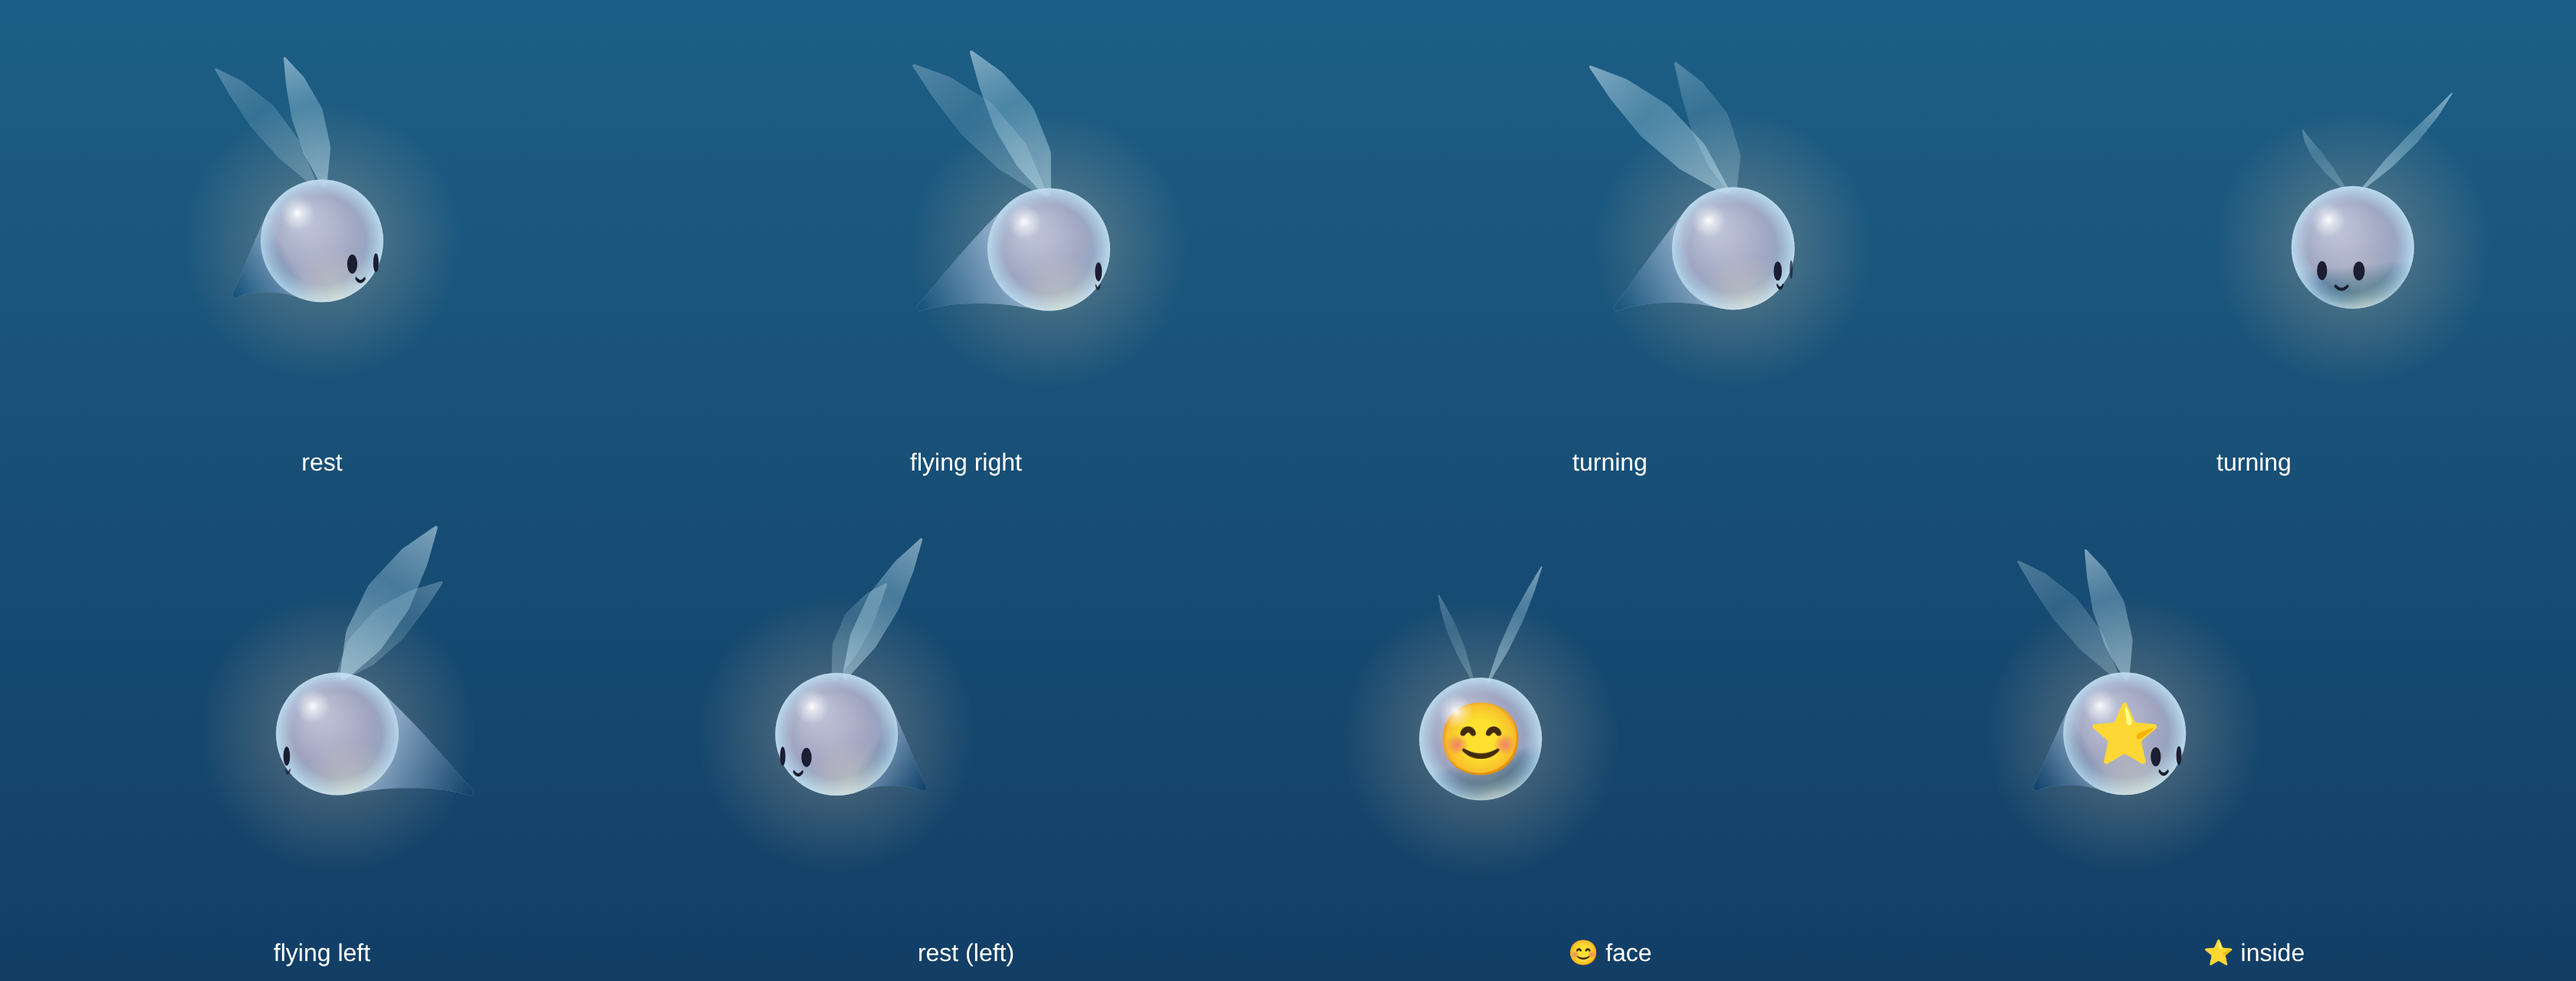
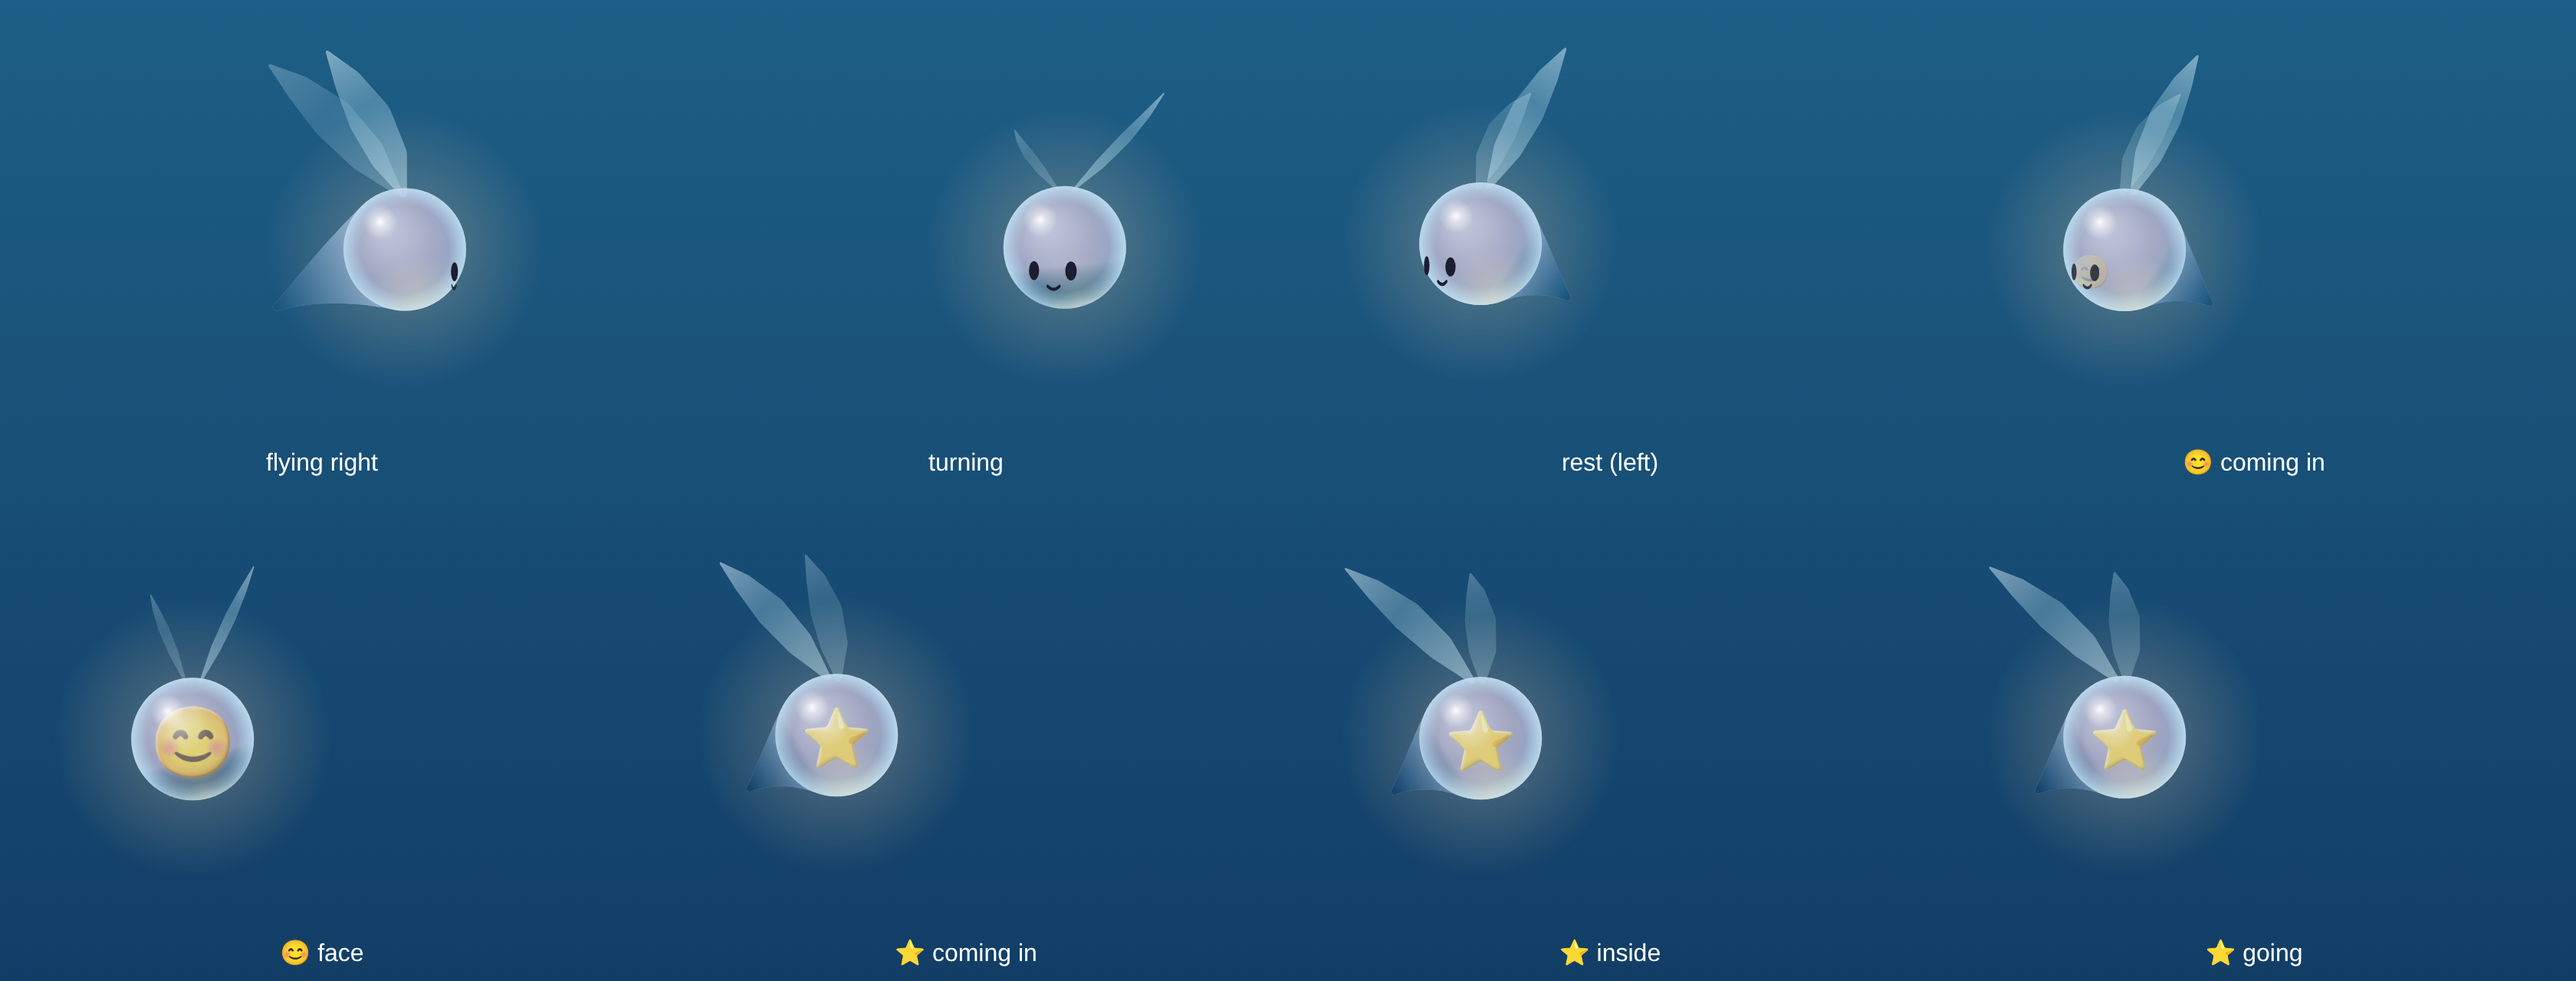
Pip vector: a glass emoji (Aaron); his face flows into it and back out
Claude-Session: https://claude.ai/code/session_01Fk5mX8SBdThAyaXsRCBZu6

diff --git a/app/design/pip-vector.html b/app/design/pip-vector.html
@@ -186,37 +186,74 @@ function drawPip(ctx, pos, R, t, dt, target, emoji, vis) {
   ctx.save(); ctx.beginPath(); ctx.arc(H.x, H.y, R, 0, Math.PI * 2); ctx.clip(); ctx.fillStyle = bounce;
   ctx.fillRect(H.x - R, H.y - R, R * 2, R * 2); ctx.restore();
 
-  // the emoji, inside the ball (or as his face), then the glass's shine over it
+  // his face flows into the emoji (Aaron, 1 Nov: "its face does need to go into the emoji"): the emoji grows out of
+  // where his face is and settles in the middle of his head; his eyes and smile slide into it and fade. Going, the
+  // other way round. The emoji is glass too (Aaron: "the glass emoji makes sense to me"): see glassEmoji().
+  const onHead = (s, u) => norm(add(add(f.face, f.sideV, s), f.up, u));
+  const e = vis * vis * (3 - 2 * vis);                                   // eased
+  const fn = onHead(0, -.38), fp = fn.z > 0 ? proj(add(O, fn), O, R) : H;
+  const centre = { x: H.x, y: H.y + R * .06 };
+  const into = { x: fp.x + (centre.x - fp.x) * e, y: fp.y + (centre.y - fp.y) * e };
   if (emoji && vis > 0) {
+    const size = R * (isFace ? 1.15 : .95) * (.35 + .65 * e) * 1.34;
     ctx.save(); ctx.beginPath(); ctx.arc(H.x, H.y, R * .96, 0, Math.PI * 2); ctx.clip();
-    ctx.globalAlpha = vis; ctx.font = `${R * (isFace ? 1.15 : .95)}px "Apple Color Emoji","Noto Color Emoji"`;
-    ctx.textAlign = 'center'; ctx.textBaseline = 'middle'; ctx.fillText(emoji, H.x, H.y + R * .06);
+    ctx.globalAlpha = Math.min(1, vis * 1.4);
+    ctx.drawImage(glassEmoji(emoji), into.x - size / 2, into.y - size / 2, size, size);
     ctx.restore();
   }
   const hl = ctx.createRadialGradient(H.x - R * .4, H.y - R * .45, 0, H.x - R * .4, H.y - R * .45, R * .28);
   hl.addColorStop(0, 'rgba(255,255,255,.95)'); hl.addColorStop(.35, 'rgba(255,255,255,.5)'); hl.addColorStop(1, 'rgba(255,255,255,0)');
   ctx.fillStyle = hl; ctx.fillRect(H.x - R, H.y - R, R * 2, R * 2);
 
-  // face: tall eyes and a small smile, painted onto the sphere where his face points (hidden round the back)
-  const faceOn = 1 - emote;
+  // face: tall eyes and a small smile, painted onto the sphere where his face points (hidden round the back);
+  // while an emoji is in, they slide into it and fade
+  const faceOn = emoji ? 1 - e : 1;
+  const pull = p => ({ x: p.x + (into.x - p.x) * e * .8, y: p.y + (into.y - p.y) * e * .8 });
   if (faceOn > .02) {
-    const onHead = (s, u) => norm(add(add(f.face, f.sideV, s), f.up, u));
     for (const s of [-.3, .3]) {
       const n = onHead(s, -.32); if (n.z < .05) continue;
-      const p = proj(add(O, n), O, R);
+      const p = pull(proj(add(O, n), O, R)), k = 1 - e * .6;
       ctx.save(); ctx.globalAlpha = faceOn * Math.min(1, n.z * 4); ctx.translate(p.x, p.y);
-      ctx.scale(Math.max(.25, n.z), 1); ctx.beginPath(); ctx.ellipse(0, 0, R * .1, R * .155, 0, 0, Math.PI * 2);
+      ctx.scale(Math.max(.25, n.z) * k, k); ctx.beginPath(); ctx.ellipse(0, 0, R * .1, R * .155, 0, 0, Math.PI * 2);
       ctx.fillStyle = GLASS.eye; ctx.fill(); ctx.restore();
     }
     const m = onHead(0, -.62);
     if (m.z > .1) {
-      const p = proj(add(O, m), O, R);
-      ctx.save(); ctx.globalAlpha = faceOn * Math.min(1, m.z * 3); ctx.translate(p.x, p.y); ctx.scale(Math.max(.3, m.z), 1);
+      const p = pull(proj(add(O, m), O, R)), k = 1 - e * .6;
+      ctx.save(); ctx.globalAlpha = faceOn * Math.min(1, m.z * 3); ctx.translate(p.x, p.y); ctx.scale(Math.max(.3, m.z) * k, k);
       ctx.beginPath(); ctx.moveTo(-R * .12, 0); ctx.quadraticCurveTo(0, R * .1, R * .12, 0);
       ctx.lineWidth = R * .05; ctx.lineCap = 'round'; ctx.strokeStyle = GLASS.eye; ctx.stroke(); ctx.restore();
     }
   }
   wingPaths.filter(w => w.z >= 0).forEach(drawWing);
+}
+
+// ---------- a glass emoji (Aaron: "here's the glass"): Apple's emoji, a little see-through, a bright edge where the
+// light hits (top left, like Pip), a soft dark edge on the other side, a sheen. Made once per emoji, then reused.
+const glassCache = {};
+function glassEmoji(ch) {
+  if (glassCache[ch]) return glassCache[ch];
+  const S = 160, mk = () => { const c = document.createElement('canvas'); c.width = c.height = S; return c; };
+  const base = mk(), b = base.getContext('2d');
+  b.font = '118px "Apple Color Emoji","Noto Color Emoji",sans-serif'; b.textAlign = 'center'; b.textBaseline = 'middle';
+  b.fillText(ch, S / 2, S / 2 + 6);
+  const sil = col => { const c = mk(), x = c.getContext('2d'); x.drawImage(base, 0, 0); x.globalCompositeOperation = 'source-in';
+    x.fillStyle = col; x.fillRect(0, 0, S, S); return c; };
+  const edge = (col, dx, dy) => { const c = sil(col), x = c.getContext('2d'), cut = sil('#000');
+    x.globalCompositeOperation = 'destination-out';
+    for (let k = 1; k <= 5; k++) { x.globalAlpha = .3; x.drawImage(cut, dx * k, dy * k); }
+    return c; };
+  const out = mk(), o = out.getContext('2d');
+  o.globalAlpha = .8; o.drawImage(base, 0, 0); o.globalAlpha = 1;
+  o.globalCompositeOperation = 'source-atop';
+  o.fillStyle = 'rgba(205,225,255,.14)'; o.fillRect(0, 0, S, S);                       // a touch of Pip's glass colour
+  o.globalAlpha = .75; o.drawImage(edge('#fff', 1.4, 1.8), 0, 0);                      // light edge, top left
+  o.globalAlpha = .3; o.drawImage(edge('rgb(25,25,70)', -1.4, -1.8), 0, 0);            // dark edge, bottom right
+  o.globalAlpha = 1;
+  const g = o.createRadialGradient(S * .36, S * .3, 0, S * .36, S * .3, S * .32);       // sheen
+  g.addColorStop(0, 'rgba(255,255,255,.55)'); g.addColorStop(1, 'rgba(255,255,255,0)');
+  o.fillStyle = g; o.fillRect(0, 0, S, S);
+  return glassCache[ch] = out;
 }
 
 // ---------- the page

diff --git a/app/tools/pip-vector-check.js b/app/tools/pip-vector-check.js
@@ -5,9 +5,9 @@ const { chromium } = require('playwright');
   p.on('pageerror', e => console.log('ERR', e.message));
   await p.goto('file://' + require('path').join(__dirname, '..', 'design', 'pip-vector.html'));
   await p.evaluate(() => { window.__manual = true; auto = false; document.querySelector('.note').remove(); document.querySelector('.bar').remove(); });
-  const keep = { 60: 'rest', 150: 'flying right', 196: 'turning', 206: 'turning', 240: 'flying left', 330: 'rest (left)', 430: '😊 face', 560: '⭐ inside' };
+  const keep = { 150: 'flying right', 206: 'turning', 330: 'rest (left)', 405: '😊 coming in', 430: '😊 face', 573: '⭐ coming in', 600: '⭐ inside', 685: '⭐ going' };
   const out = [];
-  for (let i = 0; i <= 560; i++) {
+  for (let i = 0; i <= 690; i++) {
     const t = 10 + i / 60;
     const label = await p.evaluate(([i, t, keep]) => {
       // a little script: rest, fly right, turn, fly left, rest, emoji
